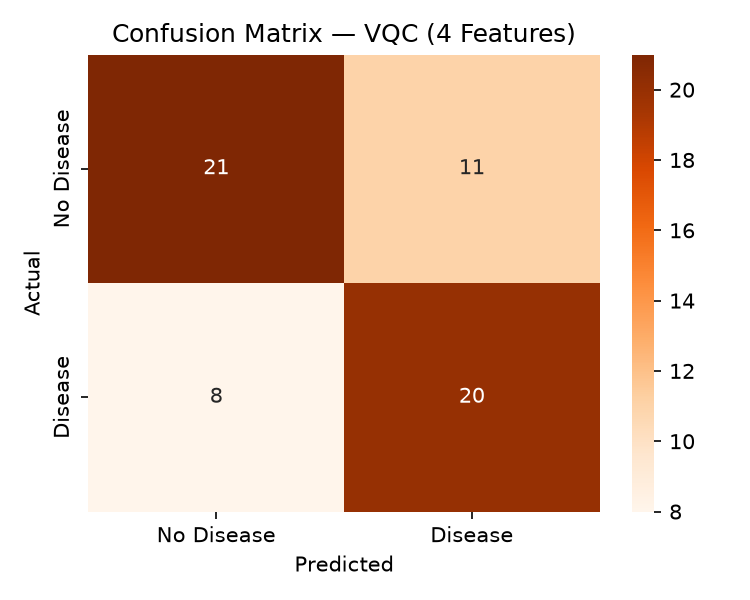
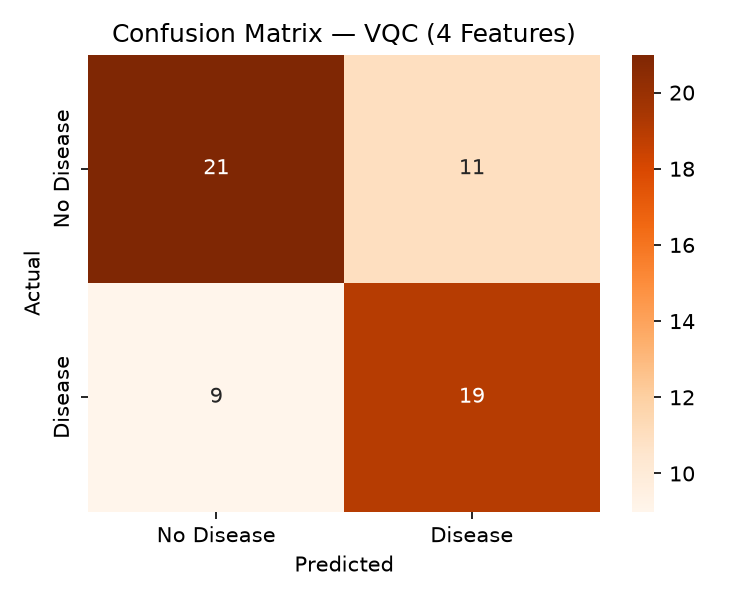
Updated Streamlit.py

diff --git a/app/streamlit_demo_pro.py b/app/streamlit_demo_pro.py
@@ -1,0 +1,265 @@
+"""
+Sanjeevani AI — Live Demo of Classical vs Quantum Models for Heart Disease Risk Prediction
+This Streamlit app allows you to input patient data and see how three different models predict the risk of heart disease: a classical SVM, a quantum kernel SVM (QSVC), and a variational quantum classifier (VQC). The app displays the predictions as color-coded speedometer gauges, along with inference times and model agreement.
+The app also includes a comparison chart of the models' performance metrics (accuracy and F1 score)
+=============================================
+Shows THREE models side by side: Classical SVM, Quantum Kernel SVM
+(QSVC), and VQC — each as a color-coded speedometer gauge.
+"""
+
+"""
+Sanjeevani AI — Live Demo (Deliverable 3)
+=============================================
+Shows THREE models side by side: Classical SVM, Quantum Kernel SVM
+(QSVC), and VQC — each as a color-coded speedometer gauge. Includes
+one-click example patients for a fast, reliable live demo.
+
+Run from your project root:
+    streamlit run app/streamlit_demo_pro.py
+"""
+
+import streamlit as st
+import numpy as np
+import pandas as pd
+import joblib
+import time
+import plotly.graph_objects as go
+from sklearn.preprocessing import StandardScaler
+from qiskit_machine_learning.algorithms import VQC
+
+st.set_page_config(
+    page_title="Sanjeevani AI | Heart Risk Screening",
+    page_icon="🫀",
+    layout="wide"
+)
+
+st.markdown("""
+<style>
+.main-title {
+    font-size: 46px; font-weight: 800;
+    background: linear-gradient(90deg, #0B5E5B, #14A085);
+    -webkit-background-clip: text; -webkit-text-fill-color: transparent;
+    text-align: center; margin-bottom: 0px;
+}
+.subtitle {
+    text-align: center; color: #999; font-size: 18px;
+    margin-top: 4px; margin-bottom: 14px;
+}
+div[data-testid="stMetricValue"] { font-size: 22px; }
+.section-label {
+    font-size: 20px; font-weight: 700; margin-top: 10px; margin-bottom: 6px;
+}
+</style>
+""", unsafe_allow_html=True)
+
+st.markdown('<p class="main-title">🫀 Sanjeevani AI</p>', unsafe_allow_html=True)
+st.markdown(
+    '<p class="subtitle">Detecting risk before it becomes an emergency '
+    '&nbsp;·&nbsp; Classical AI vs Quantum Kernel SVM vs VQC</p>',
+    unsafe_allow_html=True
+)
+st.markdown("---")
+
+@st.cache_resource
+def load_all():
+    classical_full = joblib.load("models/classical_full_model.joblib")
+    quantum_model = joblib.load("models/quantum_qsvc_model.joblib")
+    quantum_scaler = joblib.load("models/quantum_angle_scaler.joblib")
+    vqc_model = VQC.from_dill("models/vqc_model.model")
+    vqc_scaler = joblib.load("models/vqc_angle_scaler.joblib")
+    data = np.load("data/prepared_data.npz", allow_pickle=True)
+    raw_df = pd.read_csv("data/heart.csv", encoding="utf-8-sig")
+    return classical_full, quantum_model, quantum_scaler, vqc_model, vqc_scaler, data, raw_df
+
+try:
+    (classical_full, quantum_model, quantum_scaler,
+     vqc_model, vqc_scaler, data, raw_df) = load_all()
+    models_loaded = True
+except Exception as e:
+    st.error(f"⚠ Could not load one or more models: {e}")
+    st.info("Make sure you've run 02_classical_model.py, 03_quantum_model.py, "
+            "and 04_vqc_model.py first — each one saves the files this demo needs.")
+    models_loaded = False
+
+if models_loaded:
+    feature_names = list(data["feature_names"])
+    top4_features = list(data["top4_features"])
+    top4_idx = [feature_names.index(f) for f in top4_features]
+
+    feature_display_names = {
+        "age": "Age (years)", "sex": "Sex", "cp": "Chest Pain Type",
+        "trestbps": "Resting BP (mm Hg)", "chol": "Cholesterol (mg/dl)",
+        "fbs": "Fasting Sugar >120", "restecg": "Resting ECG",
+        "thalach": "Max Heart Rate", "exang": "Exercise Angina",
+        "oldpeak": "ST Depression", "slope": "ST Slope",
+        "ca": "Major Vessels", "thal": "Thalassemia",
+    }
+
+    def build_label(feat):
+        base = feature_display_names.get(feat, feat)
+        if raw_df[feat].nunique() <= 4:
+            vals = sorted(raw_df[feat].unique().tolist())
+            return f"{base} ({', '.join(str(int(v)) for v in vals)})"
+        lo, hi = int(raw_df[feat].min()), int(raw_df[feat].max())
+        return f"{base} ({lo}-{hi})"
+
+    for feat in feature_names:
+        key = f"input_{feat}"
+        if key not in st.session_state:
+            st.session_state[key] = float(raw_df[feat].median())
+
+    st.markdown('<p class="section-label">⚡ Quick Demo Examples</p>', unsafe_allow_html=True)
+    ex1, ex2, ex3 = st.columns(3)
+
+    with ex1:
+        if st.button("🔴 Load High-Risk Example", use_container_width=True):
+            row = raw_df[raw_df["target"] == 1].sample(1, random_state=1).iloc[0]
+            for feat in feature_names:
+                st.session_state[f"input_{feat}"] = float(row[feat])
+            st.rerun()
+
+    with ex2:
+        if st.button("🟢 Load Low-Risk Example", use_container_width=True):
+            row = raw_df[raw_df["target"] == 0].sample(1, random_state=2).iloc[0]
+            for feat in feature_names:
+                st.session_state[f"input_{feat}"] = float(row[feat])
+            st.rerun()
+
+    with ex3:
+        if st.button("↺ Reset to Median", use_container_width=True):
+            for feat in feature_names:
+                st.session_state[f"input_{feat}"] = float(raw_df[feat].median())
+            st.rerun()
+
+    st.markdown("---")
+    st.markdown('<p class="section-label">📋 Patient Details</p>', unsafe_allow_html=True)
+
+    inputs = {}
+    cols = st.columns(4)
+    for i, feat in enumerate(feature_names):
+        lo, hi = float(raw_df[feat].min()), float(raw_df[feat].max())
+        key = f"input_{feat}"
+        with cols[i % 4]:
+            if raw_df[feat].nunique() <= 4:
+                options = sorted(raw_df[feat].unique().tolist())
+                inputs[feat] = st.selectbox(build_label(feat), options, key=key)
+            else:
+                inputs[feat] = st.slider(build_label(feat), lo, hi, key=key)
+
+    st.markdown("---")
+    predict_clicked = st.button("🔍 RUN PREDICTION", type="primary", use_container_width=True)
+
+    def safe_predict(model, X):
+        result = np.atleast_1d(model.predict(X))
+        return int(result.flatten()[0])
+
+    def safe_predict_proba_positive(model, X):
+        result = np.atleast_2d(model.predict_proba(X))
+        return float(result[0][1])
+
+    def make_gauge(value_pct, title, subtitle_note=""):
+        if value_pct < 35:
+            bar_color, zone_text = "#2ecc71", "Low Risk"
+        elif value_pct < 65:
+            bar_color, zone_text = "#f39c12", "Moderate Risk"
+        else:
+            bar_color, zone_text = "#e74c3c", "High Risk"
+
+        fig = go.Figure(go.Indicator(
+            mode="gauge+number",
+            value=value_pct,
+            title={"text": f"{title}<br>"
+                            f"<span style='font-size:14px;color:{bar_color}'>{zone_text}</span>"
+                            f"<br><span style='font-size:11px;color:#999'>{subtitle_note}</span>"},
+            number={"suffix": "%"},
+            gauge={
+                "axis": {"range": [0, 100]},
+                "bar": {"color": bar_color},
+                "steps": [
+                    {"range": [0, 35], "color": "#eafaf1"},
+                    {"range": [35, 65], "color": "#fef5e7"},
+                    {"range": [65, 100], "color": "#fdedec"},
+                ],
+            }
+        ))
+        fig.update_layout(height=300, margin=dict(l=10, r=10, t=70, b=10))
+        return fig
+
+    if predict_clicked:
+        with st.spinner("Running classical model and quantum circuit simulations..."):
+            raw_vector = np.array([[inputs[f] for f in feature_names]])
+            scaler = StandardScaler().fit(raw_df[feature_names])
+            scaled_vector = scaler.transform(raw_vector)
+            scaled_4 = scaled_vector[:, top4_idx]
+
+            t0 = time.time()
+            classical_pred = classical_full.predict(scaled_vector)[0]
+            classical_proba = classical_full.predict_proba(scaled_vector)[0][1] * 100
+            classical_time = (time.time() - t0) * 1000
+
+            quantum_input = quantum_scaler.transform(scaled_4)
+            t0 = time.time()
+            quantum_pred = quantum_model.predict(quantum_input)[0]
+            quantum_time = (time.time() - t0) * 1000
+            try:
+                quantum_score = quantum_model.decision_function(quantum_input)[0]
+                quantum_proba = 100 / (1 + np.exp(-quantum_score))
+            except Exception:
+                quantum_proba = 100.0 if quantum_pred == 1 else 0.0
+
+            vqc_input = vqc_scaler.transform(scaled_4)
+            t0 = time.time()
+            vqc_pred = safe_predict(vqc_model, vqc_input)
+            vqc_time = (time.time() - t0) * 1000
+            try:
+                vqc_proba = safe_predict_proba_positive(vqc_model, vqc_input) * 100
+            except Exception:
+                vqc_proba = 100.0 if vqc_pred == 1 else 0.0
+
+        st.markdown("## 🎯 Results")
+        g1, g2, g3 = st.columns(3)
+
+        with g1:
+            st.plotly_chart(make_gauge(classical_proba, "🖥 Classical AI",
+                                        "SVM · 13 features"), use_container_width=True)
+            st.caption(f"Inference: {classical_time:.1f} ms")
+
+        with g2:
+            st.plotly_chart(make_gauge(quantum_proba, "⚛ Quantum Kernel SVM",
+                                        f"{len(top4_features)} qubits"), use_container_width=True)
+            st.caption(f"Features: {', '.join(top4_features)} · Inference: {quantum_time:.1f} ms")
+
+        with g3:
+            st.plotly_chart(make_gauge(vqc_proba, "🌀 VQC",
+                                        f"{len(top4_features)} qubits"), use_container_width=True)
+            st.caption(f"Features: {', '.join(top4_features)} · Inference: {vqc_time:.1f} ms")
+
+        preds = {"Classical": classical_pred, "QSVC": quantum_pred, "VQC": vqc_pred}
+        agree_count = len(set(preds.values()))
+        if agree_count == 1:
+            st.success("✅ All three models **AGREE** on this prediction.")
+        else:
+            st.warning(f"⚠ Models **disagree** — Classical: "
+                       f"{'At risk' if classical_pred else 'Lower risk'}, "
+                       f"QSVC: {'At risk' if quantum_pred else 'Lower risk'}, "
+                       f"VQC: {'At risk' if vqc_pred else 'Lower risk'}. "
+                       f"An interesting case where the models' decision boundaries diverge.")
+
+        if any(p == 1 for p in preds.values()):
+            st.info("💡 In a real deployment, this patient would be flagged for clinical follow-up.")
+
+    st.markdown("---")
+    with st.expander("📊 Full Model Comparison (Deliverable 4)"):
+        try:
+            st.image("results/comparison_chart.png", use_container_width=True)
+        except Exception:
+            st.write("Run 05_comparison.py first to generate the chart.")
+        try:
+            with open("results/comparison_summary.md") as f:
+                st.markdown(f.read())
+        except Exception:
+            pass
+
+    st.markdown("---")
+    st.caption("Sanjeevani AI · IEEE Region 10 QAI-Lead 2026 · "
+               "Built with Qiskit + scikit-learn + Streamlit")

diff --git a/04_vqc_model.py b/04_vqc_model.py
@@ -72,7 +72,7 @@ joblib.dump(angle_scaler, "models/vqc_angle_scaler.joblib")
 print("Saved VQC angle scaler.")
 
 try:
-    joblib.dump(vqc, "models/vqc_model.joblib")
+    vqc.to_dill("models/vqc_model.model")
     print("Saved VQC model.")
 except Exception as e:
     print("Could not save VQC model object (known qiskit-machine-learning limitation):", e)
